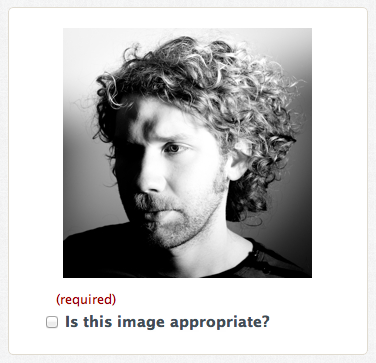
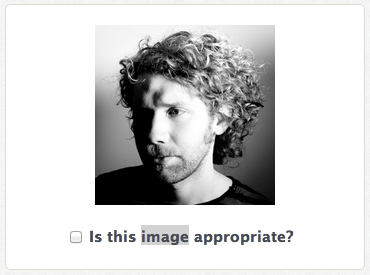
fixed required checkbox and added required to ratings

diff --git a/index.html b/index.html
@@ -100,7 +100,7 @@
   <pre><code class="html">
 &lt;img src="{{url}}" /&gt;
 &lt;cml:checkbox label="Is the image appropriate?" 
-  default="no" value="yes" validates="required" /&gt;
+  default="no" value="yes" /&gt;
   </code></pre>
   <span class="updown">↳</span>
   <img src="appropriate.png" class="shadow" />
@@ -111,7 +111,7 @@
   <pre><code class="html">
 &lt;img src="{{url}}" /&gt;
 &lt;cml:ratings label="How attractive is this young man" 
-  from="Hot" to="Not" /&gt;
+  from="Hot" to="Not" validates="required" golden="true" /&gt;
   </code></pre>
   <span class="updown">↳</span>
   <img src="attractive.png" class="shadow" />
